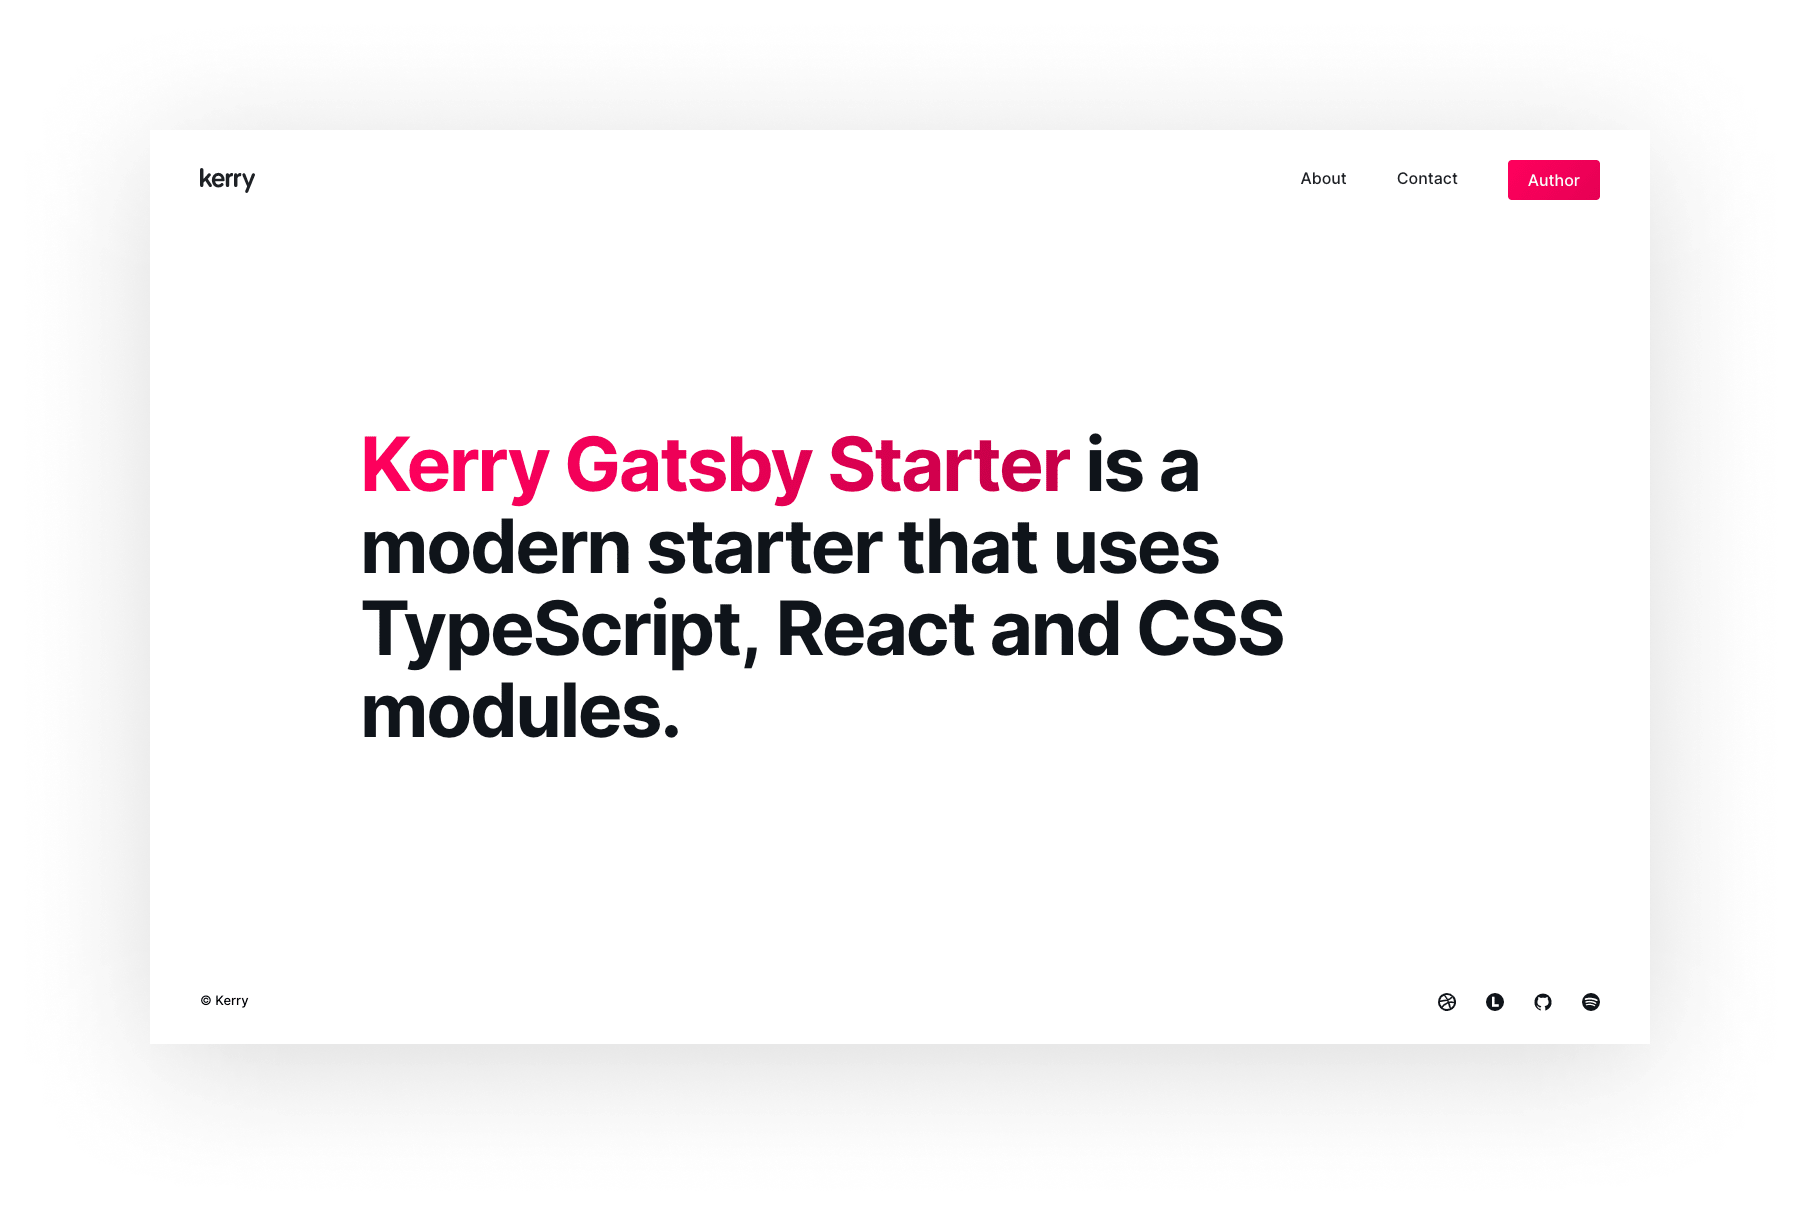
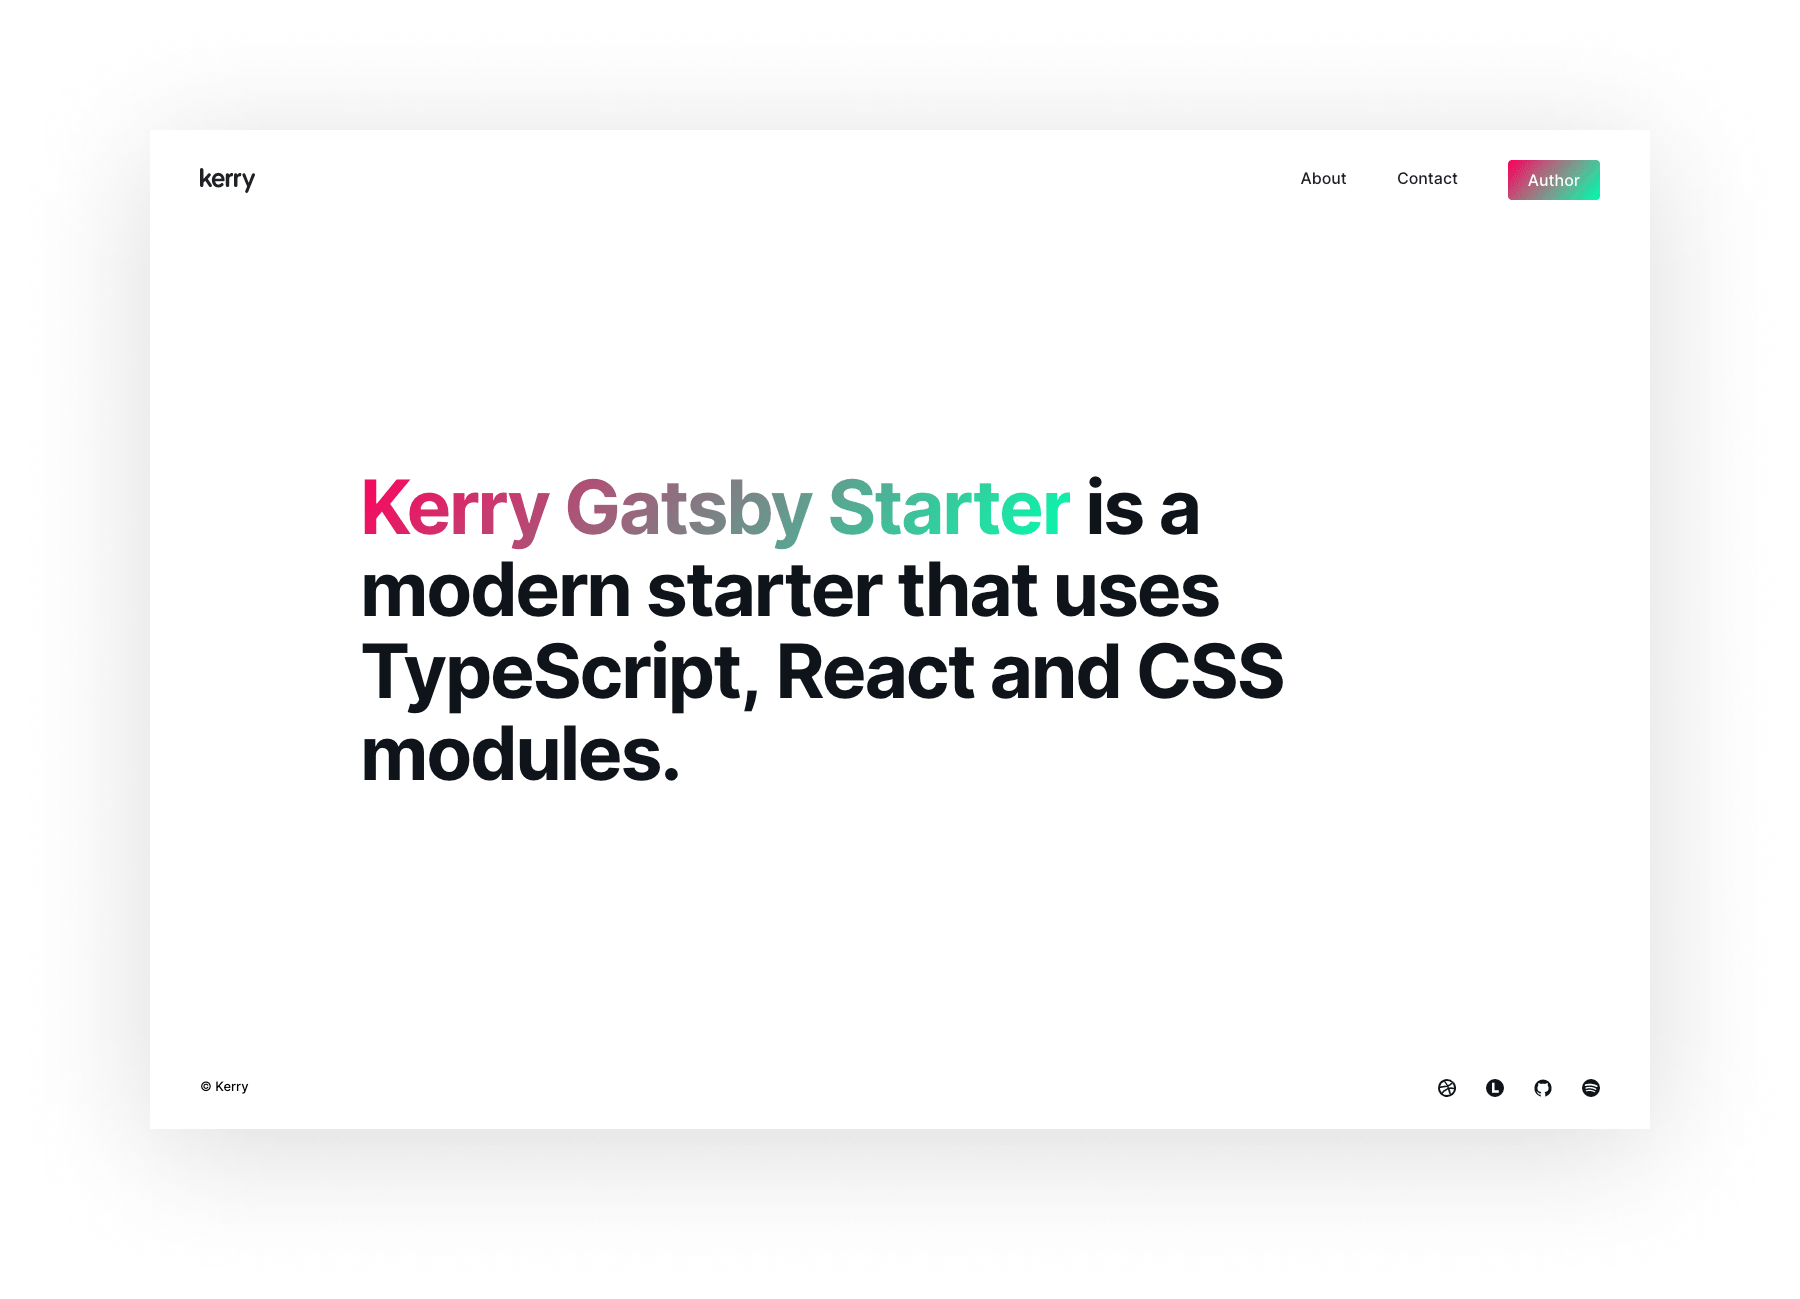
Change: hero, gradation

diff --git a/src/styles/variables.scss b/src/styles/variables.scss
@@ -131,6 +131,7 @@ $primary: $black;
 $secondary: #73737d;
 $background-color: #fff;
 $accent: $red;
+$sub-accent: $green;
 $primary-bg: #f2f2f2;
 $horizontalRule: rgba(8, 8, 11, 0.15);
 
@@ -139,7 +140,7 @@ $dark-horizontalRule: rgba(252, 252, 252, 0.15);
 $inputBackground: rgba(0, 0, 0, 0.05);
 $primary-grey: rgba(16, 20, 26, 0.05);
 
-$gradation-accent: linear-gradient(130deg, $accent, darken($accent, 5%));
+$gradation-accent: linear-gradient(130deg, $accent, $sub-accent);
 //Colors Typography
 $title: #10141a;
 $paragraph: #1c2025;

diff --git a/src/styles/mixins.scss b/src/styles/mixins.scss
@@ -62,11 +62,11 @@
 
 //gradation
 @mixin gradation-text-accent {
-  background: linear-gradient(90deg, $accent, darken($accent, 5%));
+  background: $gradation-accent;
   -webkit-background-clip: text;
   -webkit-text-fill-color: transparent;
 }
 
 @mixin gradation-bg-accent {
-  background: linear-gradient(130deg, $accent, darken($accent, 5%));
+  background: $gradation-accent;
 }

diff --git a/src/styles/font-family.css b/src/styles/font-family.css
@@ -1,1 +1,1 @@
-@import url("https://fonts.googleapis.com/css?family=Inter:200,300,400,500,700,800|IBM+Plex+Serif:100,200,300,400|Anton:400");
+@import url("https://fonts.googleapis.com/css?family=Inter:200,300,400,500,700,800|IBM+Plex+Serif:100,200,300,400");
